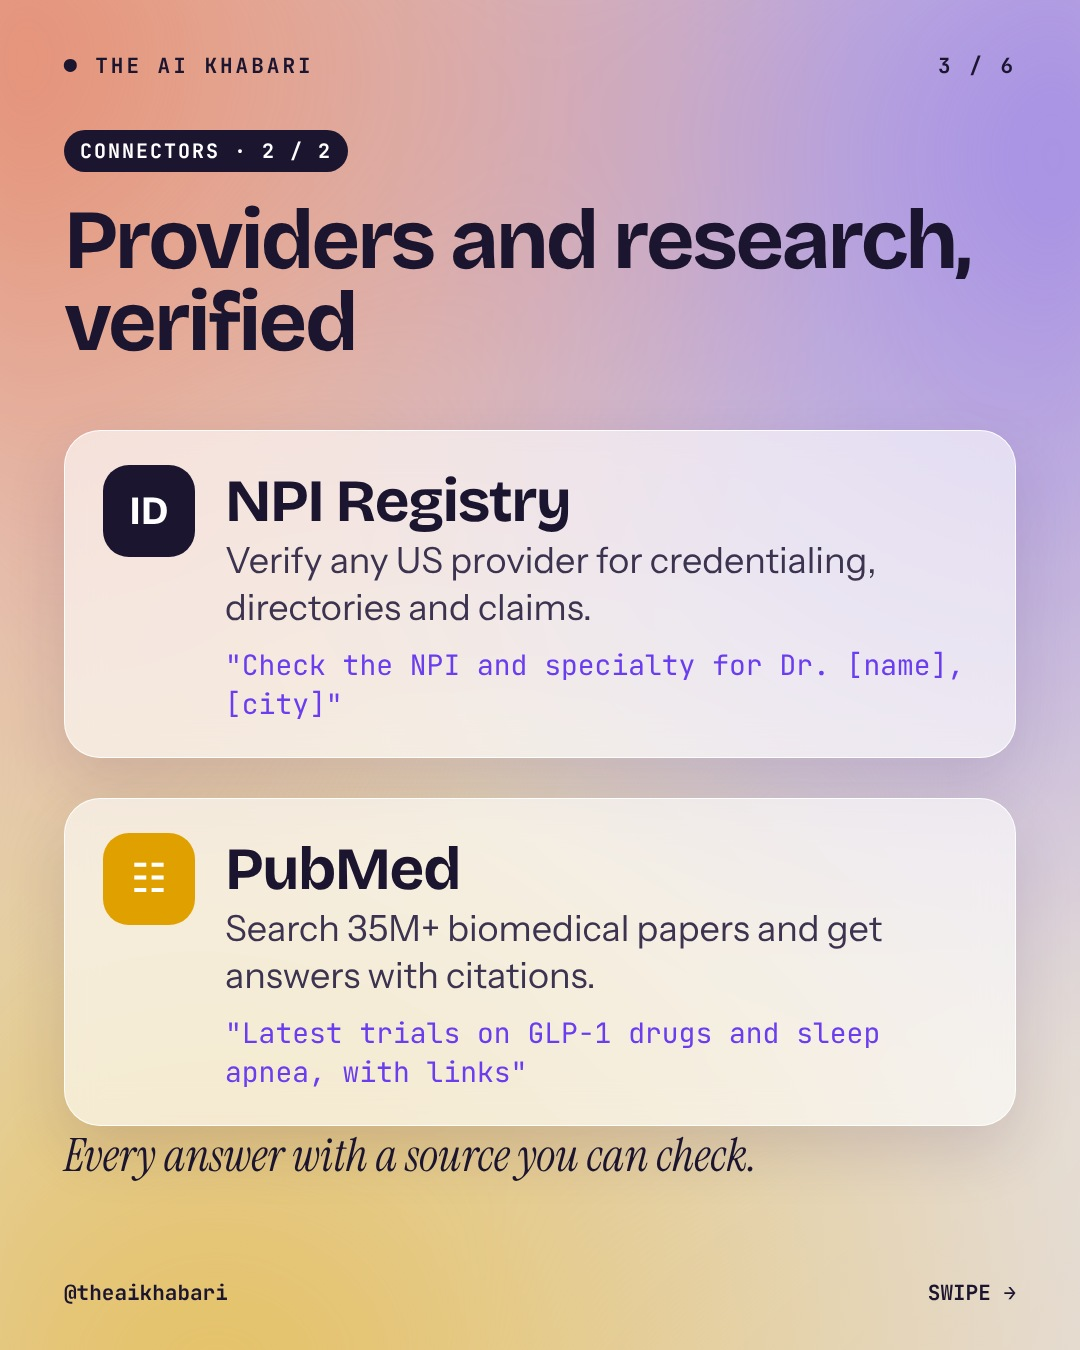
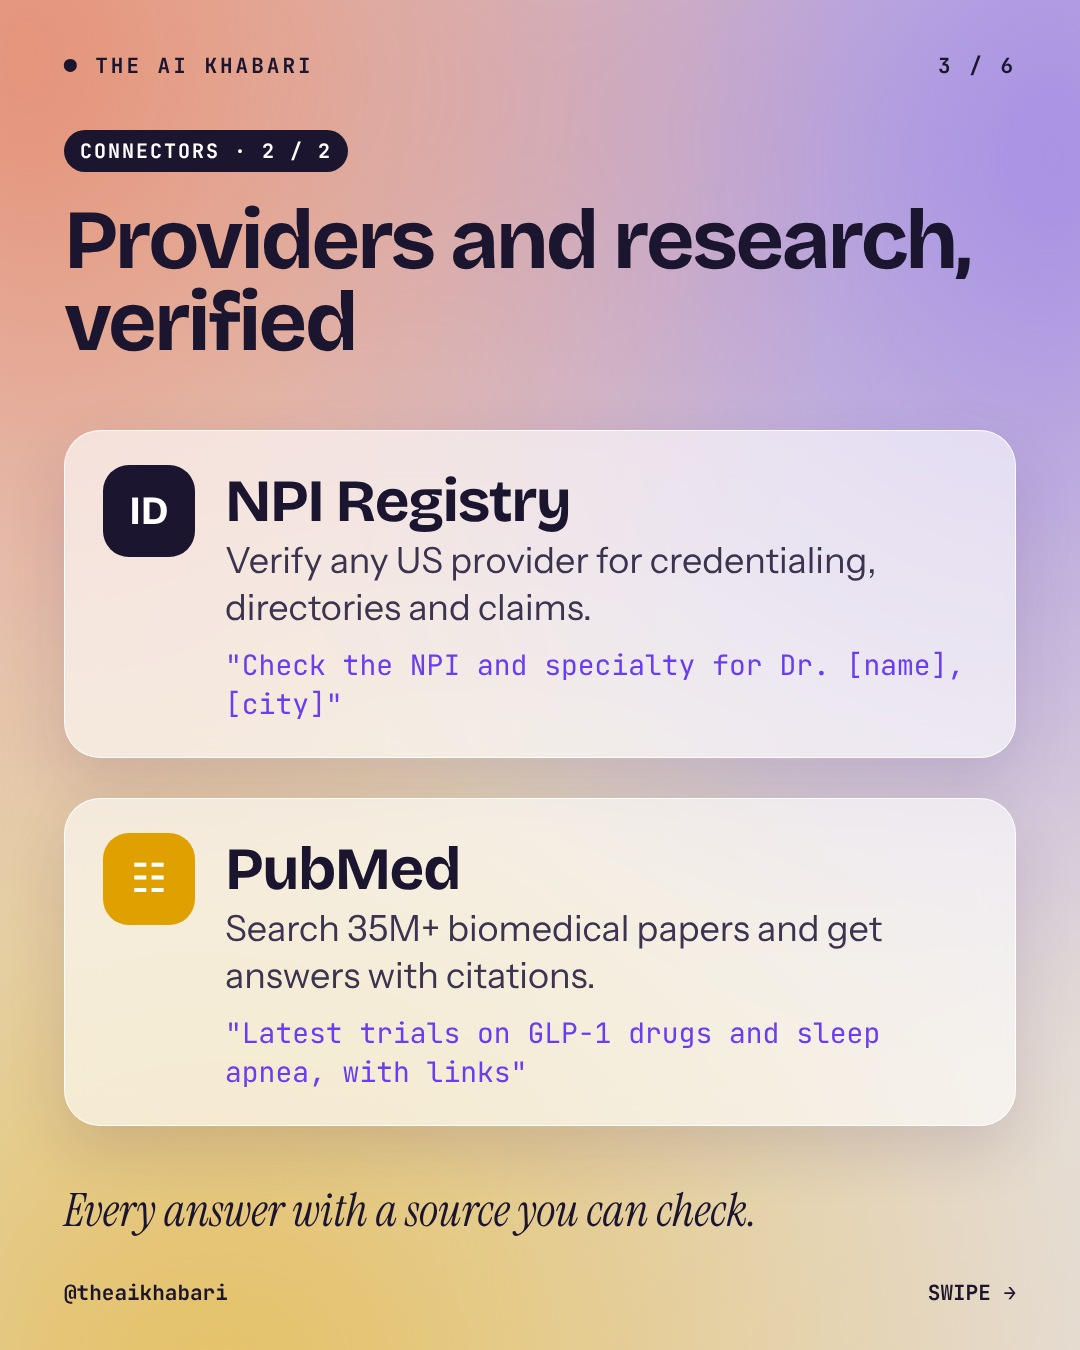
spacing
Claude-Session: https://claude.ai/code/session_01LQ7Myr8fmpLaNjf994KEDc

Changed region(s): [[0.0611, 0.84, 0.7028, 0.9333]]

diff --git a/tools/examples/health_carousel_build.py b/tools/examples/health_carousel_build.py
@@ -54,13 +54,13 @@ S.append(f"""<div class=a style="left:64px;top:130px"><span class=chip>CONNECTOR
 <div class=a style="left:64px;right:64px;top:430px;display:flex;flex-direction:column;gap:40px">
 {tool('#','#6B3DF0','ICD-10','Look up diagnosis and procedure codes, from CMS and CDC data.','"Which ICD-10 code fits type 2 diabetes with kidney disease?"')}
 {tool('&#10003;','#FF7A59','CMS Coverage','What Medicare covers: local and national coverage rules for prior auth and appeals.','"What does Medicare require to cover a knee MRI?"')}
-</div><div class="a s" style="left:64px;right:64px;top:1130px;font-size:46px;line-height:1.1">Fewer denied claims start with the right code.</div>""")
+</div><div class="a s" style="left:64px;right:64px;top:1185px;font-size:46px;line-height:1.1">Fewer denied claims start with the right code.</div>""")
 S.append(f"""<div class=a style="left:64px;top:130px"><span class=chip>CONNECTORS &middot; 2 / 2</span></div>
 <div class="a d" style="left:64px;right:64px;top:200px;font-size:84px">Providers and research, verified</div>
 <div class=a style="left:64px;right:64px;top:430px;display:flex;flex-direction:column;gap:40px">
 {tool('ID','#1C1530','NPI Registry','Verify any US provider for credentialing, directories and claims.','"Check the NPI and specialty for Dr. [name], [city]"')}
 {tool('&#9783;','#E0A100','PubMed','Search 35M+ biomedical papers and get answers with citations.','"Latest trials on GLP-1 drugs and sleep apnea, with links"')}
-</div><div class="a s" style="left:64px;right:64px;top:1130px;font-size:46px;line-height:1.1">Every answer with a source you can check.</div>""")
+</div><div class="a s" style="left:64px;right:64px;top:1185px;font-size:46px;line-height:1.1">Every answer with a source you can check.</div>""")
 S.append(f"""<div class=a style="left:64px;top:130px"><span class=chip>AGENT SKILLS &middot; READY-MADE WORKFLOWS</span></div>
 <div class="a d" style="left:64px;right:64px;top:200px;font-size:84px">Hours of paperwork, as one skill</div>
 <div class=a style="left:64px;right:64px;top:430px;display:flex;flex-direction:column;gap:40px">
